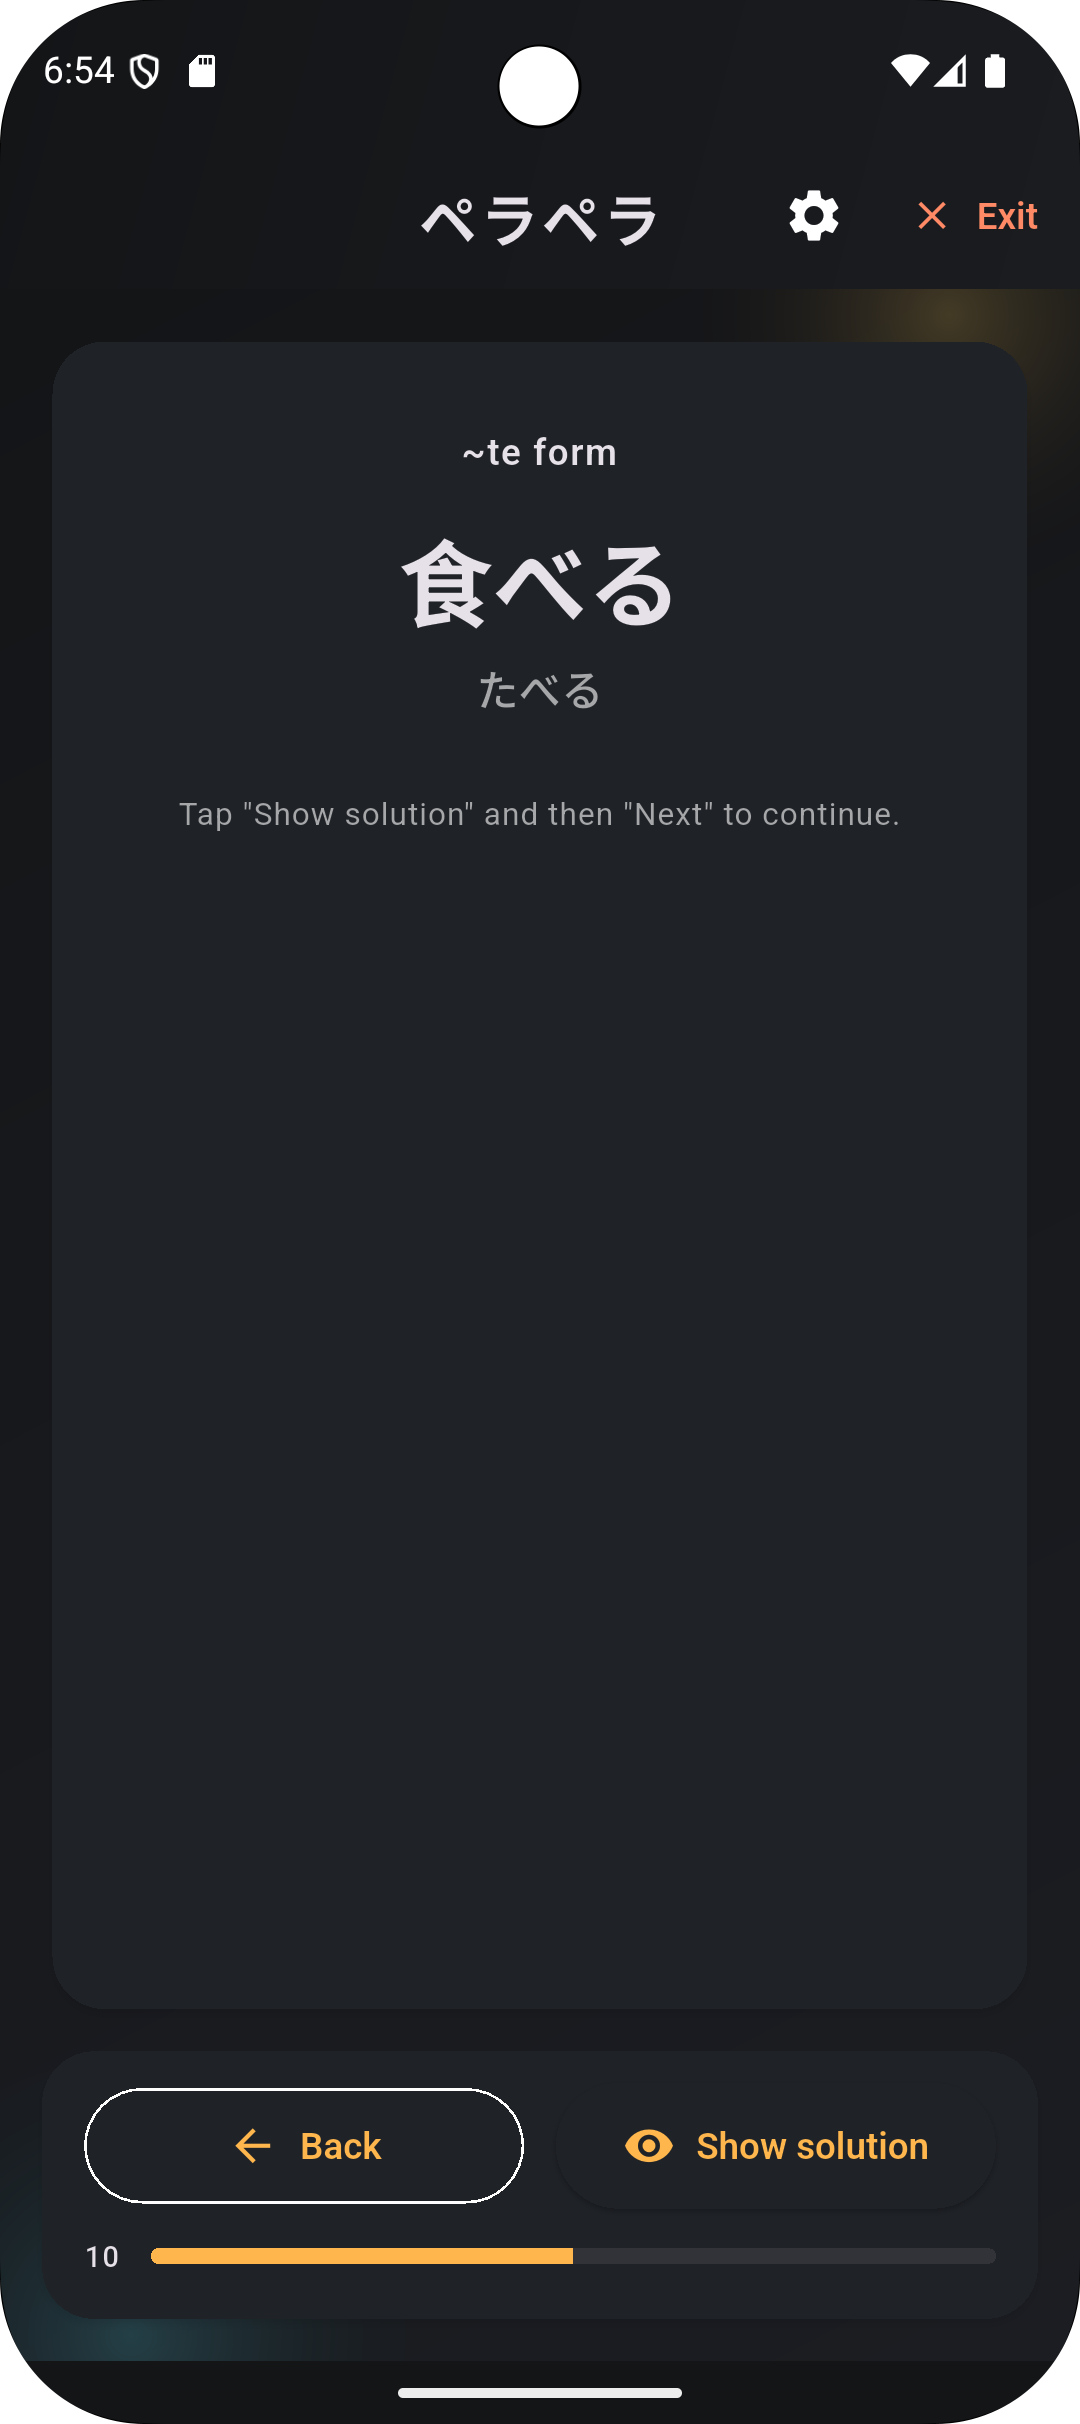
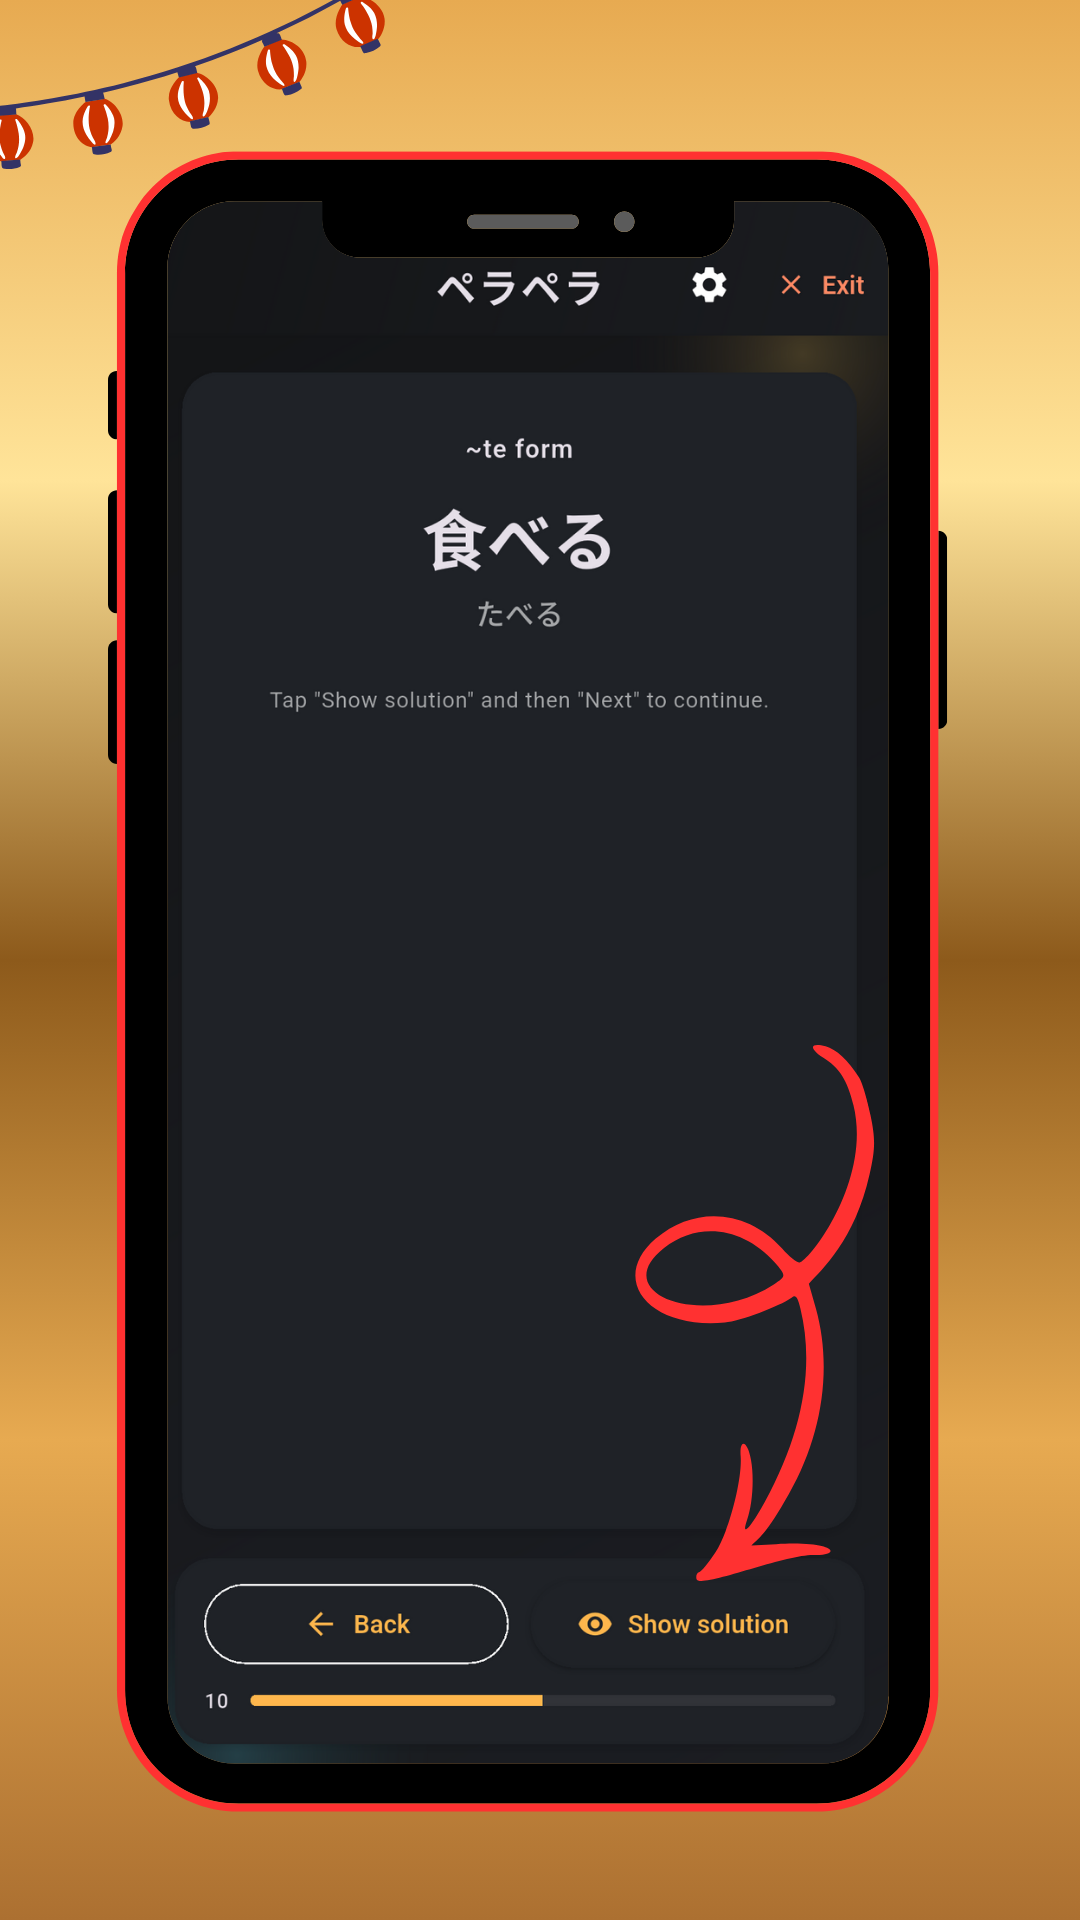
docs 5

diff --git a/docs/styles.css b/docs/styles.css
@@ -81,7 +81,7 @@ main {
   display: grid;
   grid-template-columns: repeat(auto-fit, minmax(280px, 1fr));
   gap: 48px;
-  align-items: center;
+  align-items: start;
 }
 
 .hero-copy h1 {
@@ -174,9 +174,11 @@ main {
 .hero-card {
   background: var(--card);
   border-radius: 24px;
-  padding: 20px;
+  padding: 18px;
   border: 1px solid var(--border);
   box-shadow: var(--shadow);
+  max-width: 420px;
+  justify-self: center;
 }
 
 .card-top {
@@ -199,14 +201,16 @@ main {
   border-radius: 18px;
   overflow: hidden;
   border: 1px solid var(--border);
-  background: #f3e6d7;
+  background: #151515;
+  aspect-ratio: 9 / 16;
+  max-height: 520px;
 }
 
 .hero-shot img {
   display: block;
   width: 100%;
   height: 100%;
-  object-fit: cover;
+  object-fit: contain;
 }
 
 .steps-strip {
